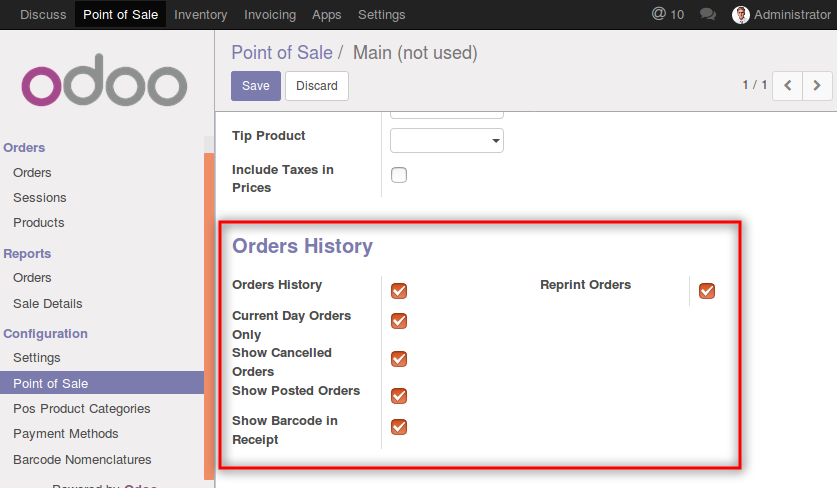
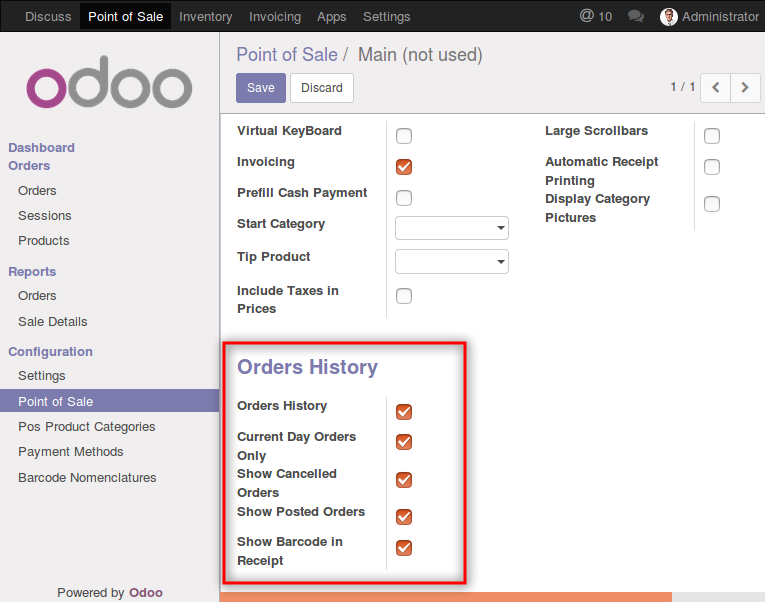
:book: pos_orders_history: doc updates

diff --git a/pos_orders_history/static/description/index.html b/pos_orders_history/static/description/index.html
@@ -101,7 +101,7 @@
     <div class="oe_span12">
       <p class="oe_mt32">
  	<font style="font-size: 120%;">
-	  Go to <em>Point of Sale &rarr; Configuration &rarr; Point of Sale</em> and open POS configuration form. See new options:
+	  Go to <em>Point of Sale &rarr; Configuration &rarr; Point of Sale</em> and open POS configuration form. See and manage new options:
 	  <ul>
 	    <li>
 	      <b>Orders History</b> - to activate/deactivate <b>History</b> button

diff --git a/pos_orders_history/__manifest__.py b/pos_orders_history/__manifest__.py
@@ -16,7 +16,7 @@
     "support": "apps@it-projects.info",
     "website": "https://twitter.com/gabbasov_dinar",
     "license": "LGPL-3",
-    "price": 69.00,
+    "price": 59.00,
     "currency": "EUR",
 
     "depends": [

diff --git a/pos_orders_history/doc/index.rst b/pos_orders_history/doc/index.rst
@@ -21,7 +21,6 @@ Configuration
   * ``[x] Show Cancelled Orders`` - to display cancelled orders together with paid orders
   * ``[x] Show Posted Orders`` - to display posted orders together with paid orders
   * ``[x] Show Barcode on Receipt`` - to display the barcode on payment receipt
-  * ``[x] Reprint Orders`` - to reprint the payment receipt of an order
     
 * Click ``[Save]``
 

diff --git a/pos_orders_history/README.rst b/pos_orders_history/README.rst
@@ -6,10 +6,10 @@
  POS Orders History
 ====================
 
-The module allows:
-* to display all paid orders in POS interface
-* to reprint the payment receipt of an order
-* to display the order barcode on payment receipt  
+The module allows to display:
+* all paid orders in POS
+* all cancelled orders in POS
+* the order reference barcode on payment receipt  
 
 Credits
 =======
